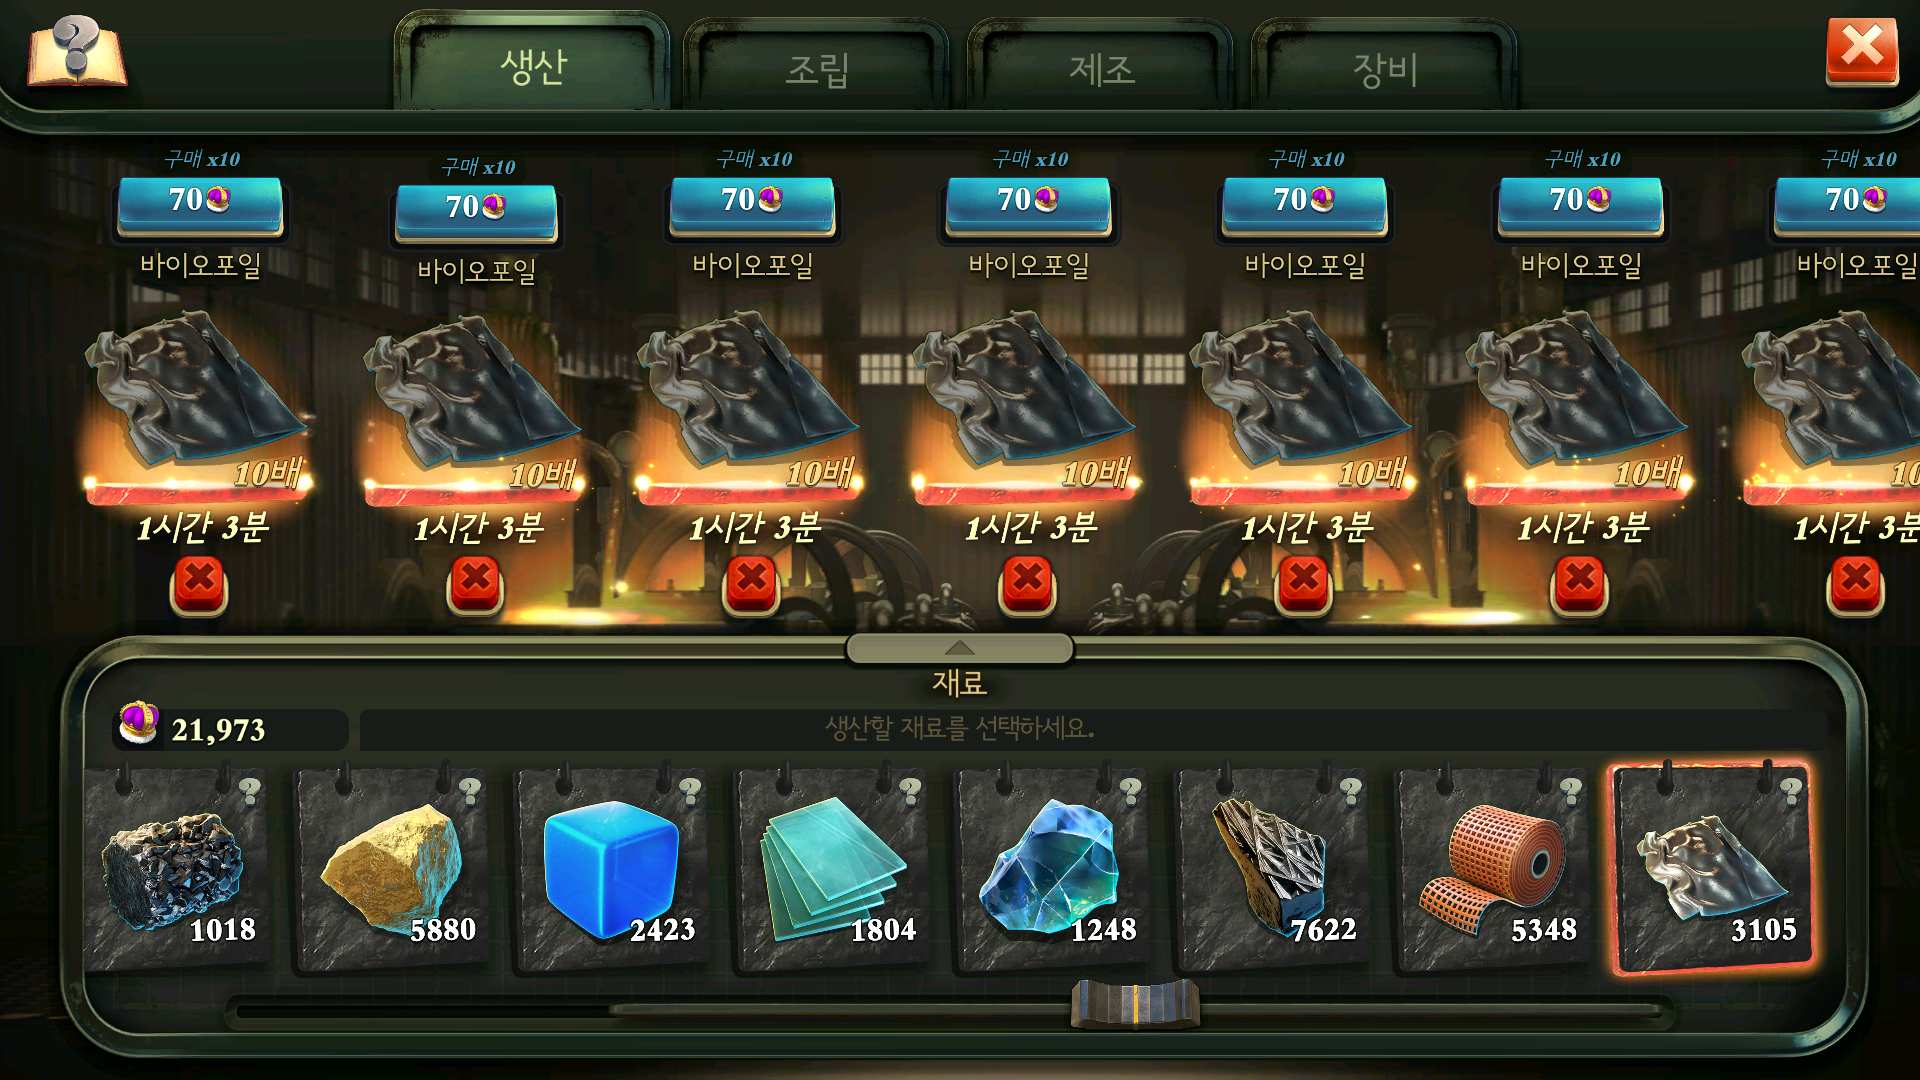
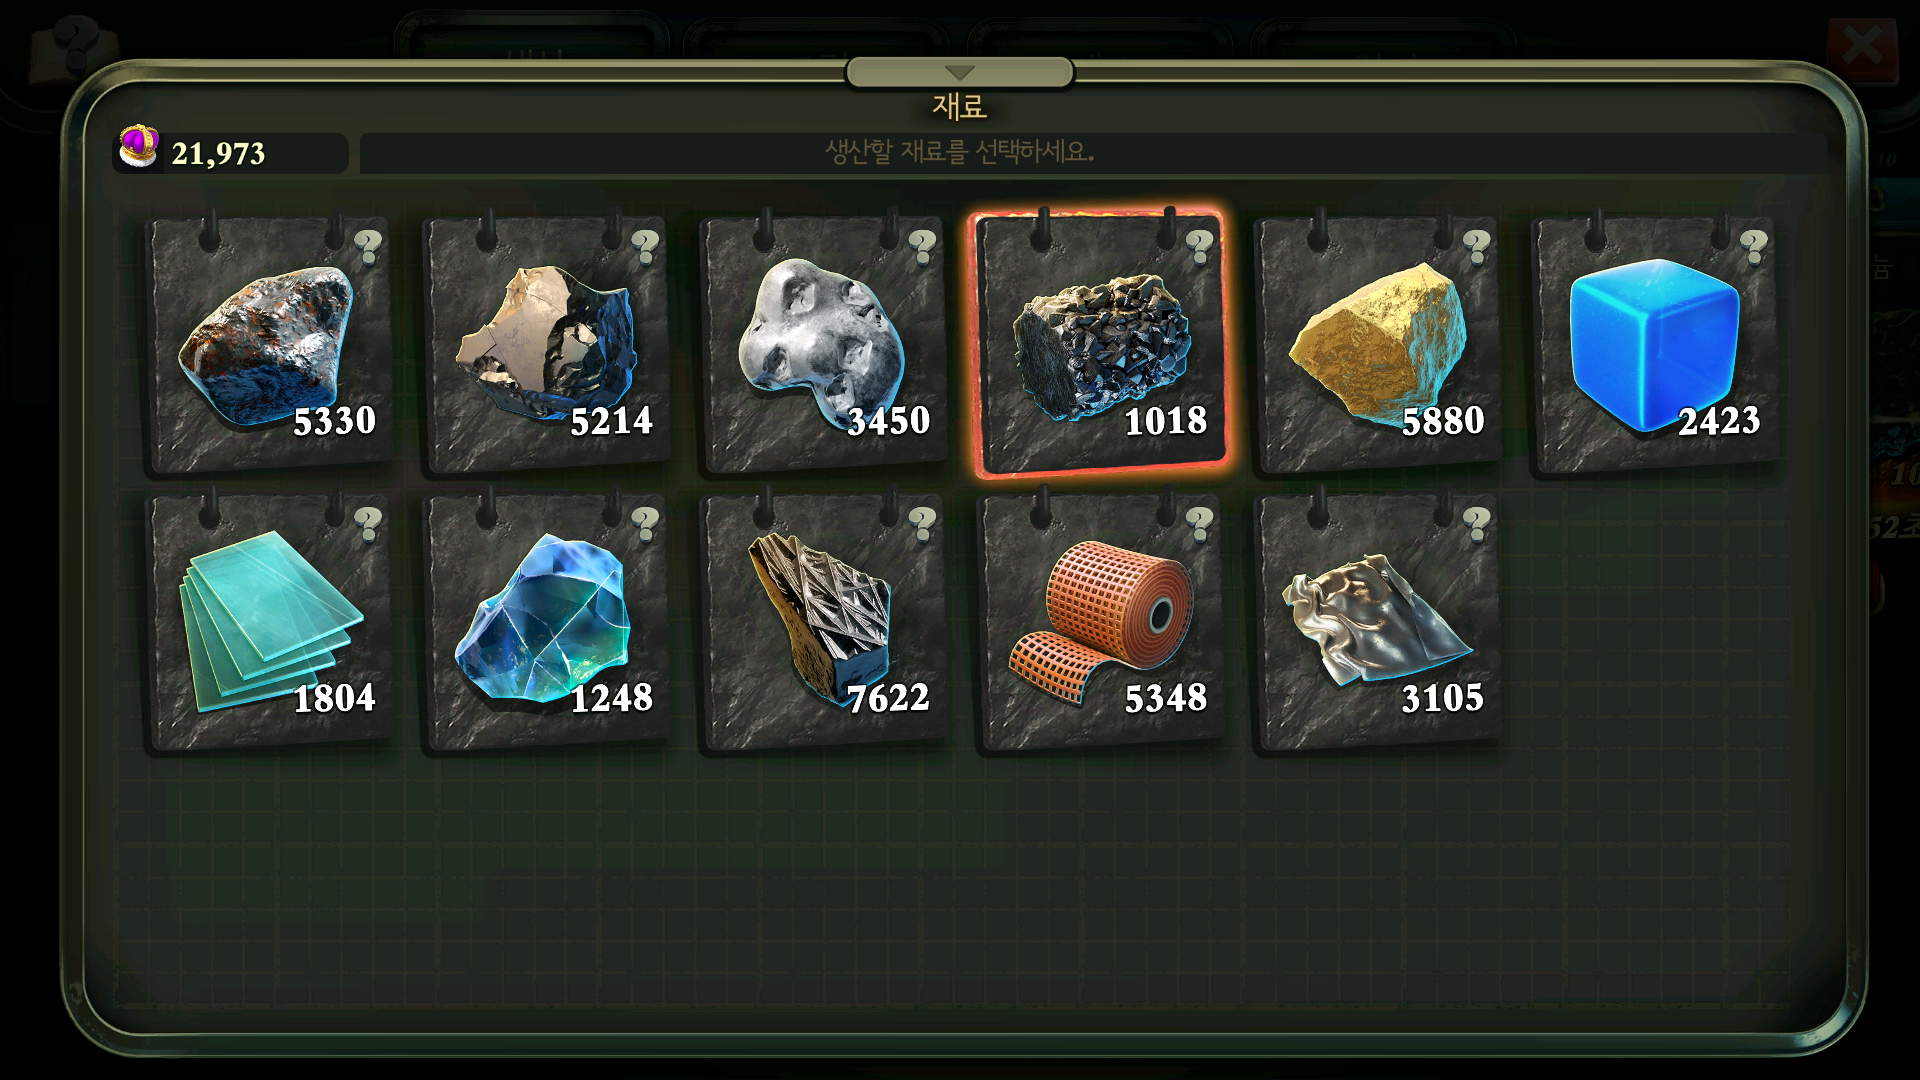
Auto update: 10:04:22

diff --git a/tracker/macro.py b/tracker/macro.py
@@ -44,9 +44,6 @@ MATERIAL_INFO = {
 
 # ✅ 목표 리스트
 PRODUCTION_QUEUE = [
-    {"name": "바이오포일",     "icon": "res_bio.png",       "target": 10000},
-    {"name": "유리",           "icon": "res_glass.png",     "target": 10000},
-    {"name": "폴리카보네이트", "icon": "res_poly.png",      "target": 10000},
     {"name": "티타늄",         "icon": "res_titanium.png",  "target": 10000},
     {"name": "철",             "icon": "res_iron.png",      "target": 10000},
     {"name": "탄소",           "icon": "res_carbon.png",    "target": 20000},
@@ -60,12 +57,12 @@ SCREEN_WIDTH = 1920
 SCREEN_HEIGHT = 1080
 SCALE_RATIO = 1.0
 
+# 화살표 좌표 (이미지 못 찾을 때를 대비한 비상용 좌표)
+ARROW_FIXED_X = 960
+ARROW_FIXED_Y = 840
+
 SWIPE_OPTS = {
-    "start_x": 1350,  # 900 * 1.5
-    "end_x": 150,     # 100 * 1.5
-    "material_y": 960,# 640 * 1.5
-    "slot_y": 525,    # 350 * 1.5
-    "duration": 500
+    "slot_y": 525, 
 }
 
 # ================= 3. 기본 함수들 =================
@@ -90,7 +87,7 @@ def run_adb_output(command):
         return ""
 
 def get_screen_resolution():
-    global SCREEN_WIDTH, SCREEN_HEIGHT, SWIPE_OPTS, SCALE_RATIO
+    global SCREEN_WIDTH, SCREEN_HEIGHT, SWIPE_OPTS, SCALE_RATIO, ARROW_FIXED_X, ARROW_FIXED_Y
     print("📏 화면 해상도 확인 중...")
     output = run_adb_output("shell wm size") 
     match = re.search(r'(\d+)x(\d+)', output)
@@ -103,11 +100,11 @@ def get_screen_resolution():
         SCALE_RATIO = SCREEN_WIDTH / 1920.0
         print(f"   📺 감지된 해상도: {SCREEN_WIDTH} x {SCREEN_HEIGHT} (배율: {SCALE_RATIO:.2f}x)")
         
-        SWIPE_OPTS["start_x"] = int(SCREEN_WIDTH * 0.7)
-        SWIPE_OPTS["end_x"] = int(SCREEN_WIDTH * 0.08)
-        SWIPE_OPTS["material_y"] = int(SCREEN_HEIGHT * 0.88)
-        SWIPE_OPTS["slot_y"] = int(SCREEN_HEIGHT * 0.48)     
-        print(f"   📍 좌표 설정 완료: 목록Y={SWIPE_OPTS['material_y']}, 슬롯Y={SWIPE_OPTS['slot_y']}")
+        SWIPE_OPTS["slot_y"] = int(SCREEN_HEIGHT * 0.48) 
+        
+        # 화살표 좌표 자동 계산
+        ARROW_FIXED_X = int(SCREEN_WIDTH * 0.5)      
+        ARROW_FIXED_Y = int(SCREEN_HEIGHT * 0.777)   
     else:
         print("   ⚠ 해상도 감지 실패. 기본값(1080p) 사용")
         SCALE_RATIO = 1.0
@@ -149,48 +146,77 @@ def swipe(start_x, start_y, end_x, end_y):
     run_adb(f'shell input swipe {start_x} {start_y} {end_x} {end_y} 1000')
     time.sleep(1.5)
 
-def is_safe_zone(x):
-    margin = int(150 * SCALE_RATIO) 
-    if x < margin: return False
-    if x > (SCREEN_WIDTH - margin): return False
-    return True
+# 🔥 클릭 위치 디버깅
+def debug_click_location(x, y, filename="click_debug.png"):
+    screen = capture_screen(is_color=True)
+    if screen is not None:
+        cv2.circle(screen, (x, y), 10, (0, 0, 255), -1) 
+        cv2.imwrite(filename, screen)
+        print(f"      📸 클릭 확인: {filename} (좌표: {x}, {y})")
 
-def find_image_with_scroll(target_file):
-    y_pos = SWIPE_OPTS["material_y"]
-    start_x = SWIPE_OPTS["start_x"]
-    end_x = SWIPE_OPTS["end_x"]
-    
-    loc = find_image(target_file)
-    if loc and is_safe_zone(loc[0]): 
-        return loc
-    elif loc:
-        print(f"   ⚠ 발견했으나 화면 끝에 걸침. 스크롤하여 중앙으로 이동합니다.")
+# 🔥 안전 클릭 (물음표 회피)
+def safe_click_material(center_x, center_y):
+    # 물음표(우상단)를 피해 왼쪽(-60) 아래(+70)로 이동
+    safe_x = center_x - int(60 * SCALE_RATIO)
+    safe_y = center_y + int(70 * SCALE_RATIO)
+    debug_click_location(safe_x, safe_y, "material_click_debug.png")
+    click(safe_x, safe_y)
 
-    print(f"🔎 목록에서 {target_file} 찾는 중...")
+# 🔥 [핵심 로직] 메뉴 확장 -> 선택 -> 닫기
+def select_material_from_grid(target_icon):
+    print("   📂 [메뉴] 목록 펼치기 (btn_arrow_up.png)")
     
-    for i in range(6):
-        print(f"   👉 [스크롤 {i+1}/6] 오른쪽 목록 확인 중...")
-        swipe(start_x, y_pos, end_x, y_pos)
-        time.sleep(1.5)
+    # 1. ▲ 화살표(열기) 클릭
+    arrow_up = find_image("btn_arrow_up.png", threshold=0.8)
+    if arrow_up:
+        click(arrow_up[0], arrow_up[1])
+    else:
+        print("      ⚠ 열기 버튼 못 찾음 -> 좌표 클릭 시도")
+        click(ARROW_FIXED_X, ARROW_FIXED_Y)
+    
+    time.sleep(2.0) # 메뉴 열리는 애니메이션 대기
+    
+    # 2. 확장된 화면에서 재료 아이콘 찾기
+    print(f"   🔎 전체 목록에서 {target_icon} 탐색 중...")
+    icon_loc = find_image(target_icon, threshold=0.8)
+    
+    if icon_loc:
+        print(f"   ✨ 재료 발견! 좌표: {icon_loc}")
+        # 3. 안전하게 클릭 (물음표 회피)
+        safe_click_material(icon_loc[0], icon_loc[1])
+        time.sleep(1.0)
         
-        loc = find_image(target_file)
-        if loc and is_safe_zone(loc[0]): 
-            print(f"   ✨ 발견했습니다! (안전 위치)")
-            return loc
+        # 4. ▼ 화살표(닫기) 클릭 - 필수!
+        print("   📂 [메뉴] 목록 닫기 (btn_arrow_down.png)")
+        arrow_down = find_image("btn_arrow_down.png", threshold=0.8)
+        if arrow_down:
+            click(arrow_down[0], arrow_down[1])
+        else:
+            print("      ⚠ 닫기 버튼 못 찾음 -> 좌표 클릭 시도")
+            click(ARROW_FIXED_X, ARROW_FIXED_Y)
             
-    print("   👈 아이콘이 없어 처음으로 돌아갑니다.")
-    for _ in range(7):
-        swipe(end_x, y_pos, start_x, y_pos)
-        loc = find_image(target_file)
-        if loc and is_safe_zone(loc[0]): return loc
-        
-    return None
+        time.sleep(2.0) # 닫히는 애니메이션 대기
+        return True
+    else:
+        print("   ⚠ 목록에서 재료를 찾지 못했습니다.")
+        # 못 찾아도 메뉴는 닫아야 함
+        arrow_down = find_image("btn_arrow_down.png", threshold=0.8)
+        if arrow_down:
+            click(arrow_down[0], arrow_down[1])
+        else:
+            click(ARROW_FIXED_X, ARROW_FIXED_Y)
+        time.sleep(1.5)
+        return False
+
+def find_image_on_main(target_file):
+    # 메인 화면에서 현재 선택된 아이콘 위치 확인 (스크롤 불필요)
+    return find_image(target_file)
 
 def check_active_border_and_get_center(center_x, center_y):
     screen_color = capture_screen(is_color=True)
     if screen_color is None: return False, None, None
     
-    # 🔥 [수정] 파란색 박스 높이 (234 유지)
+    # [최종] 파란 박스 높이 234 (3px 줄임)
     box_w = int(217 * SCALE_RATIO) 
     box_h = int(234 * SCALE_RATIO) 
     
@@ -217,6 +243,7 @@ def check_active_border_and_get_center(center_x, center_y):
     mask = mask1 + mask2
     
     mh, mw = mask.shape
+    # 도넛 구멍 만들기
     shift_mask_x = int(7 * SCALE_RATIO)
     shift_mask_y = int(-7 * SCALE_RATIO)
     cy = mh // 2 + shift_mask_y
@@ -227,14 +254,14 @@ def check_active_border_and_get_center(center_x, center_y):
     y1 = max(0, cy - gap_h)
     y2 = min(mh, cy + gap_h)
     x1 = max(0, cx - gap_w)
-    
-    # 초록색 마스크 우측 보정 (9px 유지)
-    x2 = min(mw, cx + gap_w - int(9 * SCALE_RATIO))
+    # [최종] 우측 마스킹 -9px
+    x2 = min(mw, cx + gap_w - int(9 * SCALE_RATIO)) 
     
     mask[y1:y2, x1:x2] = 0
     
     red_pixel_count = cv2.countNonZero(mask)
     
+    # 디버그 이미지 저장
     cv2.rectangle(roi, (0, 0), (box_w-2, box_h-2), (255, 0, 0), 2)
     cv2.rectangle(roi, (x1, y1), (x2, y2), (0, 255, 0), 2)
     green_overlay = roi.copy()
@@ -274,7 +301,7 @@ def _read_single_count(center_x, center_y):
     if screen_color is None: return 0
     screen_gray = cv2.cvtColor(screen_color, cv2.COLOR_BGR2GRAY)
     
-    # OCR 박스 위치 보정 (유지)
+    # [최종] OCR 박스 -35px
     offset_x = int(12 * SCALE_RATIO)     
     offset_y = int(-35 * SCALE_RATIO)   
     
@@ -414,8 +441,8 @@ def step8_clear_slots():
                 break
             retry += 1
     y = SWIPE_OPTS["slot_y"]
-    sx = SWIPE_OPTS["start_x"]
-    ex = SWIPE_OPTS["end_x"]
+    sx = int(SCREEN_WIDTH * 0.8)
+    ex = int(SCREEN_WIDTH * 0.2)
     clear_routine()
     swipe(sx, y, ex, y) 
     time.sleep(1)
@@ -423,28 +450,15 @@ def step8_clear_slots():
     swipe(ex, y, sx, y) 
     time.sleep(1)
 
-# 🔥 [NEW] 클릭 위치 디버깅 함수
-def debug_click_location(x, y):
-    screen = capture_screen(is_color=True)
-    if screen is not None:
-        # 빨간색 원 (반지름 10, 두께 채움)
-        cv2.circle(screen, (x, y), 10, (0, 0, 255), -1) 
-        cv2.imwrite("click_debug.png", screen)
-        print(f"      📸 클릭 위치 저장됨: click_debug.png (좌표: {x}, {y})")
-
 def step9_fill_slots(icon_loc):
     print("[Step 9] 슬롯 채우기 (12연타)")
     if icon_loc:
-        # 🔥 [수정] 클릭 좌표를 왼쪽(-60) 아래(+70)로 대폭 수정
-        # 물음표(우상단)를 피하기 위해 반대 방향인 좌하단으로 깊숙이 이동
-        
+        # 안전 클릭 (메인 화면에서도 적용)
+        safe_click_material(icon_loc[0], icon_loc[1])
+        # 연타
         safe_x = icon_loc[0] - int(60 * SCALE_RATIO)
         safe_y = icon_loc[1] + int(70 * SCALE_RATIO)
-        
-        # 디버그 이미지 저장
-        debug_click_location(safe_x, safe_y)
-        
-        for i in range(12): 
+        for i in range(11): 
             click(safe_x, safe_y)
             time.sleep(0.3) 
         print("   ✅ 완료")
@@ -453,7 +467,7 @@ def step9_fill_slots(icon_loc):
 
 def main():
     global CURRENT_INDEX
-    print(f"=== 🏭 도미네이션즈 봇 (1920x1080 Native + ClickDebug) ===")
+    print(f"=== 🏭 도미네이션즈 봇 (1080p Native + Grid Menu) ===")
     os.system(f"{ADB_CMD} connect {DEVICE_ADDRESS}")
     get_screen_resolution()
     
@@ -488,45 +502,54 @@ def main():
             is_game_ready = True
 
         # --- 게임 실행 중 ---
-        icon_loc = find_image_with_scroll(target_info['icon'])
-        if icon_loc:
-            print(f"   🧐 '{target_name}' 선택 여부 확인 중...")
+        
+        # 1. 메뉴 열고 -> 재료 찾고 -> 선택하고 -> 닫기
+        # (스크롤 방식 대신 이 함수 하나로 대체됨)
+        menu_success = select_material_from_grid(target_info['icon'])
+        
+        if menu_success:
+            print(f"   🧐 '{target_name}' 선택 완료. 상태 확인 중...")
+            time.sleep(2.0) 
             
-            # 🔥 [업그레이드된 함수]
-            is_active, true_x, true_y = check_active_border_and_get_center(icon_loc[0], icon_loc[1])
+            # 2. 메인 화면에서 위치 다시 찾기 (정확한 OCR/테두리 인식을 위해)
+            main_loc = find_image_on_main(target_info['icon'])
             
-            if is_active:
-                print("   ✅ [활성 확인] 현재 이 재료가 선택되어 있습니다.")
-                current_cnt = read_dynamic_count_robust(true_x, true_y)
-            else:
-                print("   ❌ [비활성] 이 재료가 선택되지 않았습니다.")
-                # 🔥 [비활성 보정] 1080p 기준 보정값
-                fix_y = int(37 * SCALE_RATIO) 
-                current_cnt = read_dynamic_count_robust(icon_loc[0], icon_loc[1] + fix_y)
-            
-            eta = calculate_eta(target_name, current_cnt, target_amount)
-            print(f"[Step 6] 현황: {current_cnt}개 / 남은 시간: {eta}")
-
-            if current_cnt >= target_amount and current_cnt > 0:
-                print(f"🎊 목표 달성! 다음 단계로 즉시 이동")
-                send_discord_msg(f"🎊 [목표 달성] {target_name} 완료! 다음 재료로 넘어갑니다.")
+            if main_loc:
+                is_active, true_x, true_y = check_active_border_and_get_center(main_loc[0], main_loc[1])
                 
-                step8_clear_slots() # 생산 취소
-                CURRENT_INDEX += 1  # 다음 목표
-                continue # 재시작 없이 바로 다음 재료로 루프
+                if is_active:
+                    print("   ✅ [활성 확인] 생산 준비 완료.")
+                    current_cnt = read_dynamic_count_robust(true_x, true_y)
+                else:
+                    print("   ❌ [비활성] 선택 실패 또는 오류.")
+                    fix_y = int(37 * SCALE_RATIO) 
+                    current_cnt = read_dynamic_count_robust(main_loc[0], main_loc[1] + fix_y)
+                
+                eta = calculate_eta(target_name, current_cnt, target_amount)
+                print(f"[Step 6] 현황: {current_cnt}개 / 남은 시간: {eta}")
 
-            if not is_active:
-                print(f"[Step 8] 다른 재료 생산 중 -> 전체 취소 후 변경")
-                step8_clear_slots()
-                print(f"[Step 9] 새 목표({target_name}) 생산 시작")
-                step9_fill_slots(icon_loc)
+                if current_cnt >= target_amount and current_cnt > 0:
+                    print(f"🎊 목표 달성! 다음 단계로 즉시 이동")
+                    send_discord_msg(f"🎊 [목표 달성] {target_name} 완료! 다음 재료로 넘어갑니다.")
+                    step8_clear_slots() 
+                    CURRENT_INDEX += 1  
+                    continue 
+
+                if not is_active:
+                    print(f"[Step 8] 재료 변경 -> 슬롯 비우기")
+                    step8_clear_slots()
+                    print(f"[Step 9] 생산 시작")
+                    step9_fill_slots(main_loc)
+                else:
+                    print(f"[Step 7] 생산 유지 (수집/보충)")
+                    click(450, 525); click(900, 525) 
+                    step9_fill_slots(main_loc)
             else:
-                print(f"[Step 7] 생산 유지 (수집/보충)")
-                click(450, 525); click(900, 525)
-                step9_fill_slots(icon_loc)
+                print("   ⚠ 메인 화면에서 선택된 아이콘을 확인할 수 없습니다. (재시도)")
+                time.sleep(2)
         else:
-            print(f"⚠ {target_name} 아이콘을 목록에서 못 찾았습니다.")
-            is_game_ready = False 
+            print(f"⚠ 메뉴에서 {target_name}을(를) 찾지 못했습니다.")
+            time.sleep(5)
             continue
 
         remaining_time = WAIT_TIME
